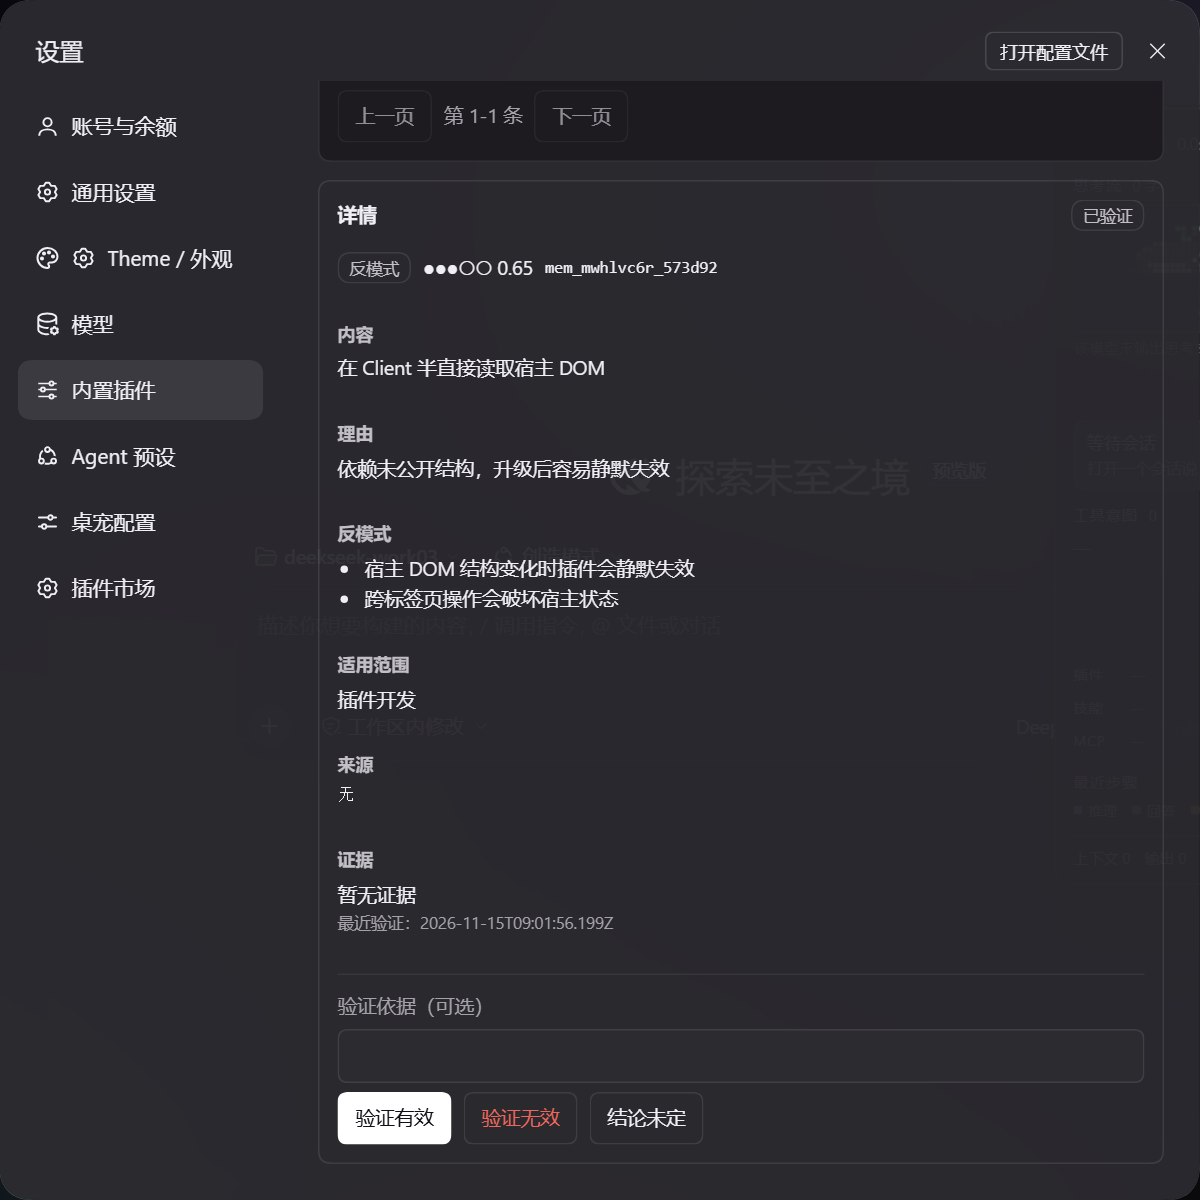
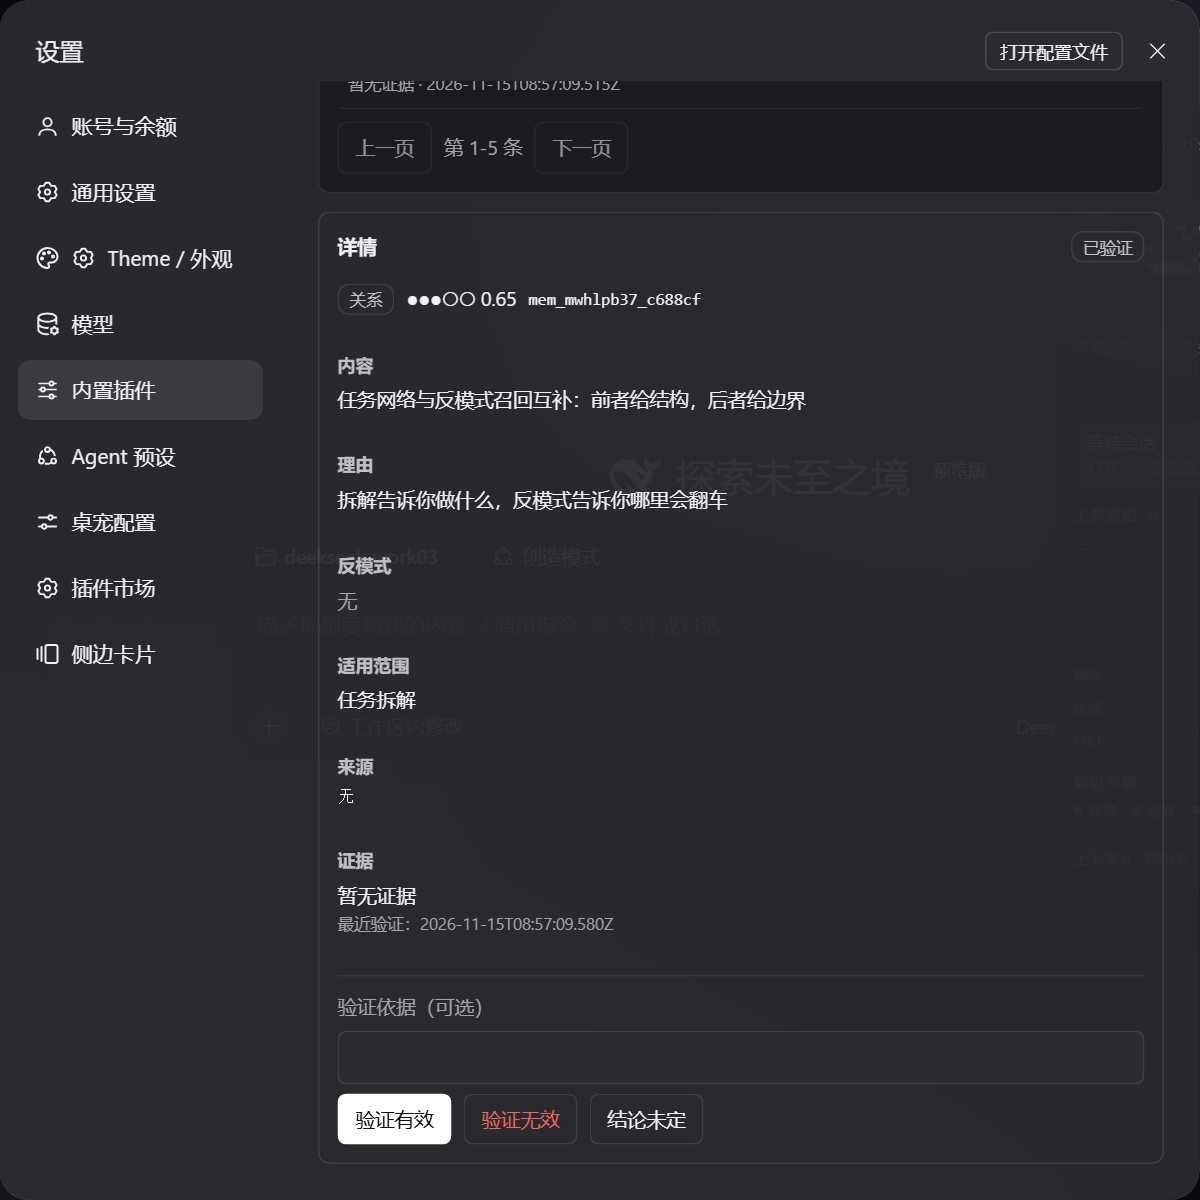
feat(ui): rename memory browser and clarify scope
Rename the misleading skills tab to memory browsing, state that it only shows Memweave memories and does not read installed plugins or skills, and update docs/screenshots.

diff --git a/client/index.js b/client/index.js
@@ -27,7 +27,7 @@ window.__ModuleLoader__.load({
     /** Simplified Chinese dictionary, the key source of truth. */
     const zh = {
       tabStorage: '存储与分类',
-      tabMemories: '技能浏览',
+      tabMemories: '记忆浏览',
       tabFusion: '融合',
       storageTitle: '存储与分类',
       storageIntro: '记忆数据默认存于当前 workspace 的 .memweave/，也可配置绝对路径；分类与状态计数来自 Host 实时扫描（包含全部状态）。',
@@ -49,15 +49,15 @@ window.__ModuleLoader__.load({
       loadError: '读取失败',
       retry: '重试',
       categoryTitle: '分类概览',
-      categoryHint: '点击分类：本页展开该分类明细，并为“技能浏览”预置筛选。',
+      categoryHint: '点击分类：本页展开该分类明细，并为“记忆浏览”预置筛选。',
       statusTitle: '状态分布',
-      openMemories: '在技能浏览中查看',
-      filterPresetHint: '筛选已预置；切换到“技能浏览”可查看完整结果。',
+      openMemories: '在记忆浏览中查看',
+      filterPresetHint: '筛选已预置；切换到“记忆浏览”可查看完整结果。',
       drillBack: '返回概览',
       drillEmpty: '该分类当前没有记忆。',
       drillLoading: '正在读取…',
-      memoriesTitle: '技能浏览',
-      memoriesIntro: '浏览、检索并验证记忆。默认只显示已验证记忆；候选记忆需要显式切换状态。',
+      memoriesTitle: '记忆浏览',
+      memoriesIntro: '浏览、检索并验证 Memweave 自己写入的记忆；不读取已安装插件或技能。默认只显示已验证记忆；候选记忆需要显式切换状态。',
       filterStatus: '状态',
       filterTypes: '类型',
       searchPlaceholder: '搜索内容、理由或反模式',
@@ -152,7 +152,7 @@ window.__ModuleLoader__.load({
       drillEmpty: 'No memories in this category.',
       drillLoading: 'Reading…',
       memoriesTitle: 'Memories',
-      memoriesIntro: 'Browse, search and verify memories. Verified is the default; candidates require an explicit status switch.',
+      memoriesIntro: 'Browse, search and verify memories written by Memweave itself; installed plugins and skills are not read here. Verified is the default; candidates require an explicit status switch.',
       filterStatus: 'Status',
       filterTypes: 'Types',
       searchPlaceholder: 'Search content, rationale or anti-patterns',

diff --git a/DESIGN.md b/DESIGN.md
@@ -16,7 +16,7 @@
 4. **融合层**：固定五个内置记忆适配器；只在显式导入/导出时读取兼容文件，数据仍落在织忆自己的区域。
 
 共 **10 个 Host 工具**：7 个原工具 + `memweave_fusion_status` / `memweave_import` / `memweave_export`。  
-共 **3 个设置标签页**：`存储与分类` / `技能浏览` / `融合`。
+共 **3 个设置标签页**：`存储与分类` / `记忆浏览` / `融合`。
 
 ---
 
@@ -30,7 +30,7 @@
 | 2 | Client 标签页“调用 Host 半的 `memweave_memory_verify`” | Client 与 Host 之间没有“直接调用工具”的 RPC；工具只面向模型 | Host 暴露同源 `/memweave/api` 路由；路由与工具调用**同一个 core 函数**（`verifyMemory`），验证按钮确实走 Host 半逻辑 |
 | 3 | `dsh.client` “指向 `./client`” | 实际解析规则：`package.json.exports["./client"]` 给出浏览器脚本路径；`dsh.client = { platform, inject, external, immediately }`。该脚本必须是 classic script，调用 `window.__ModuleLoader__.load({ id, factory })`，不能是裸 ESM | `exports["./client"] = "./client/index.js"`；`client/index.js` 自己注册 factory，内部 `require('react')` |
 | 4 | `patches/aggregate.yaml` 的 `optional: true` 由安装器跳过缺失包 | Loader patch **没有 `optional` 行语义**；缺失包的行会变成 failed fiber（不阻断其它行，但留下失败记录） | 默认 patch 只插自身；`aggregate.yaml` 作为声明式单一事实来源；`scripts/prepare-aggregate.mjs` 检查本机已安装包，只把可用行写入可安装的 `aggregate/cordis.patch.yml`，实现“缺失即跳过”的等价效果 |
-| 5 | 分类点击“跳转并预置筛选” | 设置标签页由 shell 内部状态控制，未向注册者暴露 `setActiveTab`；读取/操作宿主 DOM 被明令禁止 | 分类卡在本页内展开该分类的记忆明细（真正的跳转语义），同时把筛选写入共享 UI store；用户切到“技能浏览”时自动消费该筛选 |
+| 5 | 分类点击“跳转并预置筛选” | 设置标签页由 shell 内部状态控制，未向注册者暴露 `setActiveTab`；读取/操作宿主 DOM 被明令禁止 | 分类卡在本页内展开该分类的记忆明细（真正的跳转语义），同时把筛选写入共享 UI store；用户切到“记忆浏览”时自动消费该筛选 |
 | 6 | `workspaceOf(exec)` | 工具调用可取 `exec.agent.session.header.cwd`；设置页请求没有 agent | 工具：session cwd → `.memweave/`；API：最近一次工具调用看到的 workspace → Host 启动目录，并在 UI 明示来源，避免假装知道 |
 | 7 | `anti_pattern` 无 `antiPatterns` → `INVALID_ARGUMENT`；同时 `rationale required` | `rationale` 在 schema 层 required 时，空串仍能到达 `execute` | schema 保持 required；`execute` 额外做 trim 空校验，抛 `HarnessError('INVALID_ARGUMENT')` |
 | 8 | `invalid` 后 `<0.3` 才 `disputed` | 置信度 ≥0.3 时状态如何未定义 | 明确：≥0.3 保持原状态（`candidate` 仍候选，`verified` 仍验证），只降置信度；`superseded` 拒绝验证 |
@@ -67,7 +67,7 @@
 ┌──────────────────────────── Browser (Client half) ────────────────────────────┐
 │ settings.plugins.tab  ×3                                                     │
 │  ├─ memweave-storage  存储与分类（概览、路径、分类下钻）                    │
-│  ├─ memweave-memories 技能浏览（筛选、列表、详情、验证）                    │
+│  ├─ memweave-memories 记忆浏览（筛选、列表、详情、验证）                    │
 │  └─ memweave-fusion   融合（固定适配器、开关、方向、聚合状态）                    │
 │            │ fetch /memweave/api/*（同源、loopback 信任围栏）                │
 └────────────┼─────────────────────────────────────────────────────────────────┘
@@ -503,7 +503,7 @@ window.__ModuleLoader__.load({
 - `ctx.locale.register('memweave', { zh, en })`；
 - 三次 `ctx.slots.inject('settings.plugins.tab', () => ctx.slots.register({ id, order, label, locale:'memweave' }, Component))`：
   - `memweave-storage` / order 10 / `存储与分类`
-  - `memweave-memories` / order 20 / `技能浏览`
+  - `memweave-memories` / order 20 / `记忆浏览`
   - `memweave-fusion` / order 30 / `融合`
 
 ### 12.2 纪律
@@ -523,11 +523,11 @@ window.__ModuleLoader__.load({
 
 - 顶部：有效存储根、来源标签（已配置 / 会话 workspace / 最近会话 / Host 启动目录）、目录存在状态。
 - 路径输入 + 保存/清除；相对路径在前端先做提示，Host 仍会二次拒绝。
-- 五张分类卡：事实/程序/判断/反模式/关系；点击后在本页展开该分类明细（预置筛选），并把筛选写入共享 UI store，供“技能浏览”首次挂载时消费。
+- 五张分类卡：事实/程序/判断/反模式/关系；点击后在本页展开该分类明细（预置筛选），并把筛选写入共享 UI store，供“记忆浏览”首次挂载时消费。
 - 状态概览：verified/candidate/disputed/superseded 计数。
 - 刷新按钮；错误横幅。
 
-**技能浏览**
+**记忆浏览**
 
 - 筛选：状态（默认 verified）、类型多选、关键词、每页 50。
 - 列表：类型、内容摘要、置信度符号、状态、最近验证时间。
@@ -582,7 +582,7 @@ window.__ModuleLoader__.load({
 | 1 三个标签页可见 | client 注册 `memweave-storage/memories/fusion`，order 10/20/30 |
 | 2 绝对路径生效、清除回退 | Config `storageRoot` + resolve 优先级；工具与 API 共用 |
 | 3 分类概览五类、点击跳转预置筛选 | 存储页五卡 + 本页下钻 + 共享筛选 |
-| 4 列表+详情+验证按钮 | 技能浏览页 + `/api/verify` → `verifyMemory` |
+| 4 列表+详情+验证按钮 | 记忆浏览页 + `/api/verify` → `verifyMemory` |
 | 5 融合页覆盖五个内置适配器、开关写 settings | fusion registry + `/api/fusion` → configEditor |
 | 6 fusion_status 返回 plugins/aggregateBundle | `detectFusion` + `ctx.get('memweaveAggregate')` |
 | 7 import dryRun 不写、正式写 candidate/0.4 | `importFromPlugin` |
@@ -612,7 +612,7 @@ window.__ModuleLoader__.load({
 # 1) 本地安装到 desktop profile
 #    plugin_manager -> install_bundle -> target = E:\...\skill-work\dsh-memweave
 # 2) 重启或等待 HMR，打开 设置 → 插件
-# 3) 三个标签页出现：存储与分类 / 技能浏览 / 融合
+# 3) 三个标签页出现：存储与分类 / 记忆浏览 / 融合
 # 4) 用模型调用 memweave_decompose 等工具，或直接打开页面
 ```
 

diff --git a/docs/USAGE.md b/docs/USAGE.md
@@ -9,7 +9,7 @@
 | 标签页 | 主要用途 | 数据操作 |
 |---|---|---|
 | **存储与分类** | 查看/切换记忆库位置，浏览五类计数与状态分布 | 配置 `storageRoot`，只影响之后读写的目录 |
-| **技能浏览** | 筛选、搜索、查看详情、验证记忆 | 读取与验证记忆 |
+| **记忆浏览** | 筛选、搜索、查看详情、验证记忆 | 读取与验证记忆 |
 | **融合** | 查看 5 个固定内置记忆适配器，启用/关闭导入导出方向 | 写插件配置；不自动读写其他插件 |
 
 > 设置外壳自带的 `插件列表` 标签页不属于织忆；织忆贡献的是另外三个。
@@ -36,7 +36,7 @@
 1. 点击左下角**账号头像**。
 2. 选择 **设置**。
 3. 在左侧选择 **内置插件**。
-4. 选择 **存储与分类**、**技能浏览** 或 **融合**。
+4. 选择 **存储与分类**、**记忆浏览** 或 **融合**。
 
 也可以使用设置快捷键 **Ctrl + Alt + ,**（Windows/Linux）。
 
@@ -44,7 +44,7 @@
 
 - 三个标签页默认是空的或显示 0 条记忆，这是正常的。
 - 默认存储位置是**当前 workspace** 下的 `.memweave/`，不需要你填写任何路径。
-- 如果你还没有产生记忆，先使用 Agent 工具沉淀一条，或跳到 [第 3 节](#3-技能浏览) 了解验证流程。
+- 如果你还没有产生记忆，先使用 Agent 工具沉淀一条，或跳到 [第 3 节](#3-记忆浏览) 了解验证流程。
 
 ---
 
@@ -158,12 +158,12 @@
 点击某个分类卡片：
 
 1. 卡片高亮，页面下方展开该分类的 **已验证** 记忆明细；
-2. 同时给“技能浏览”预置该类型的筛选；
+2. 同时给“记忆浏览”预置该类型的筛选；
 3. 点“返回概览”收起明细。
 
 ![分类下钻](screenshots/usage-storage-category.png)
 
-注意：下钻列表只查 `verified`，所以如果某分类只有候选/有争议记忆，展开后可能是空的。完整数据请到“技能浏览”切换状态查看。
+注意：下钻列表只查 `verified`，所以如果某分类只有候选/有争议记忆，展开后可能是空的。完整数据请到“记忆浏览”切换状态查看。
 
 ### 2.7 状态分布
 
@@ -184,11 +184,13 @@
 
 ---
 
-## 3. 技能浏览
+## 3. 记忆浏览
+
+这里只显示 Memweave 自己写入的记忆；已安装的插件或技能（例如 `dsh-frontend-page-craft`）不会自动出现在这里。
 
 ### 3.1 界面
 
-![技能浏览](screenshots/usage-memories.png)
+![记忆浏览](screenshots/usage-memories.png)
 
 界面从上到下：
 
@@ -219,7 +221,7 @@
 
 点击列表条目，右侧（窄屏时在下方）显示详情：
 
-![技能浏览详情](screenshots/usage-memories-detail.png)
+![记忆浏览详情](screenshots/usage-memories-detail.png)
 
 详情字段：
 
@@ -445,7 +447,7 @@ memweave_export(pluginKey="dsh-memory-xfy", statusFilter="verified", limit=50)
 1. 打开“存储与分类”，确认路径是 workspace 的 `.memweave/`。
 2. 不做任何保存。
 3. 让 Agent 用 `memweave_precipitate` 沉淀第一条记忆。
-4. 回到“技能浏览”，状态切“候选”查看；验证后切“已验证”。
+4. 回到“记忆浏览”，状态切“候选”查看；验证后切“已验证”。
 
 ### 5.2 从其他记忆插件导入
 
@@ -453,7 +455,7 @@ memweave_export(pluginKey="dsh-memory-xfy", statusFilter="verified", limit=50)
 2. 勾选启用，方向选“读取”。
 3. 让 Agent 先 `dryRun=true` 预览。
 4. 确认后正式导入。
-5. 到“技能浏览”状态切“候选”查看新条目。
+5. 到“记忆浏览”状态切“候选”查看新条目。
 6. 逐条验证，有效的进入已验证池。
 
 ### 5.3 导出给其他插件
@@ -465,7 +467,7 @@ memweave_export(pluginKey="dsh-memory-xfy", statusFilter="verified", limit=50)
 
 ### 5.4 验证一条反模式
 
-1. “技能浏览”类型选“反模式”。
+1. “记忆浏览”类型选“反模式”。
 2. 点开目标条目，查看“反模式”字段。
 3. 在真实任务中确认它是否发生。
 4. 点“验证有效”或“验证无效”，填写依据。

diff --git a/CHANGELOG.md b/CHANGELOG.md
@@ -34,7 +34,7 @@ The format follows [Keep a Changelog](https://keepachangelog.com/en/1.1.0/), and
 - **Forced anti-pattern recall**: relevant anti-patterns are never buried outside the top results.
 - **Measurable Loops**: mandatory metric name/target/unit/cadence; trends from round three.
 - **Deterministic task networks**: six-node scaffold with `dependsOn` and `human/agent/hybrid` executors.
-- **Three settings tabs**: `存储与分类`, `技能浏览`, `融合`.
+- **Three settings tabs**: `存储与分类`, `记忆浏览`, `融合`.
 - **Same-origin Host API**: `/memweave/api` for snapshot, memories, detail, verify, storage and fusion writes, with loopback/origin trust fence.
 - **Atomic local storage**: exclusive `wx` temp file plus `rename`, orphan `.tmp.*` cleanup.
 - **Read-only fusion layer**: file/service/tool-name probes for five compatible memory plugins; explicit import/export only.
